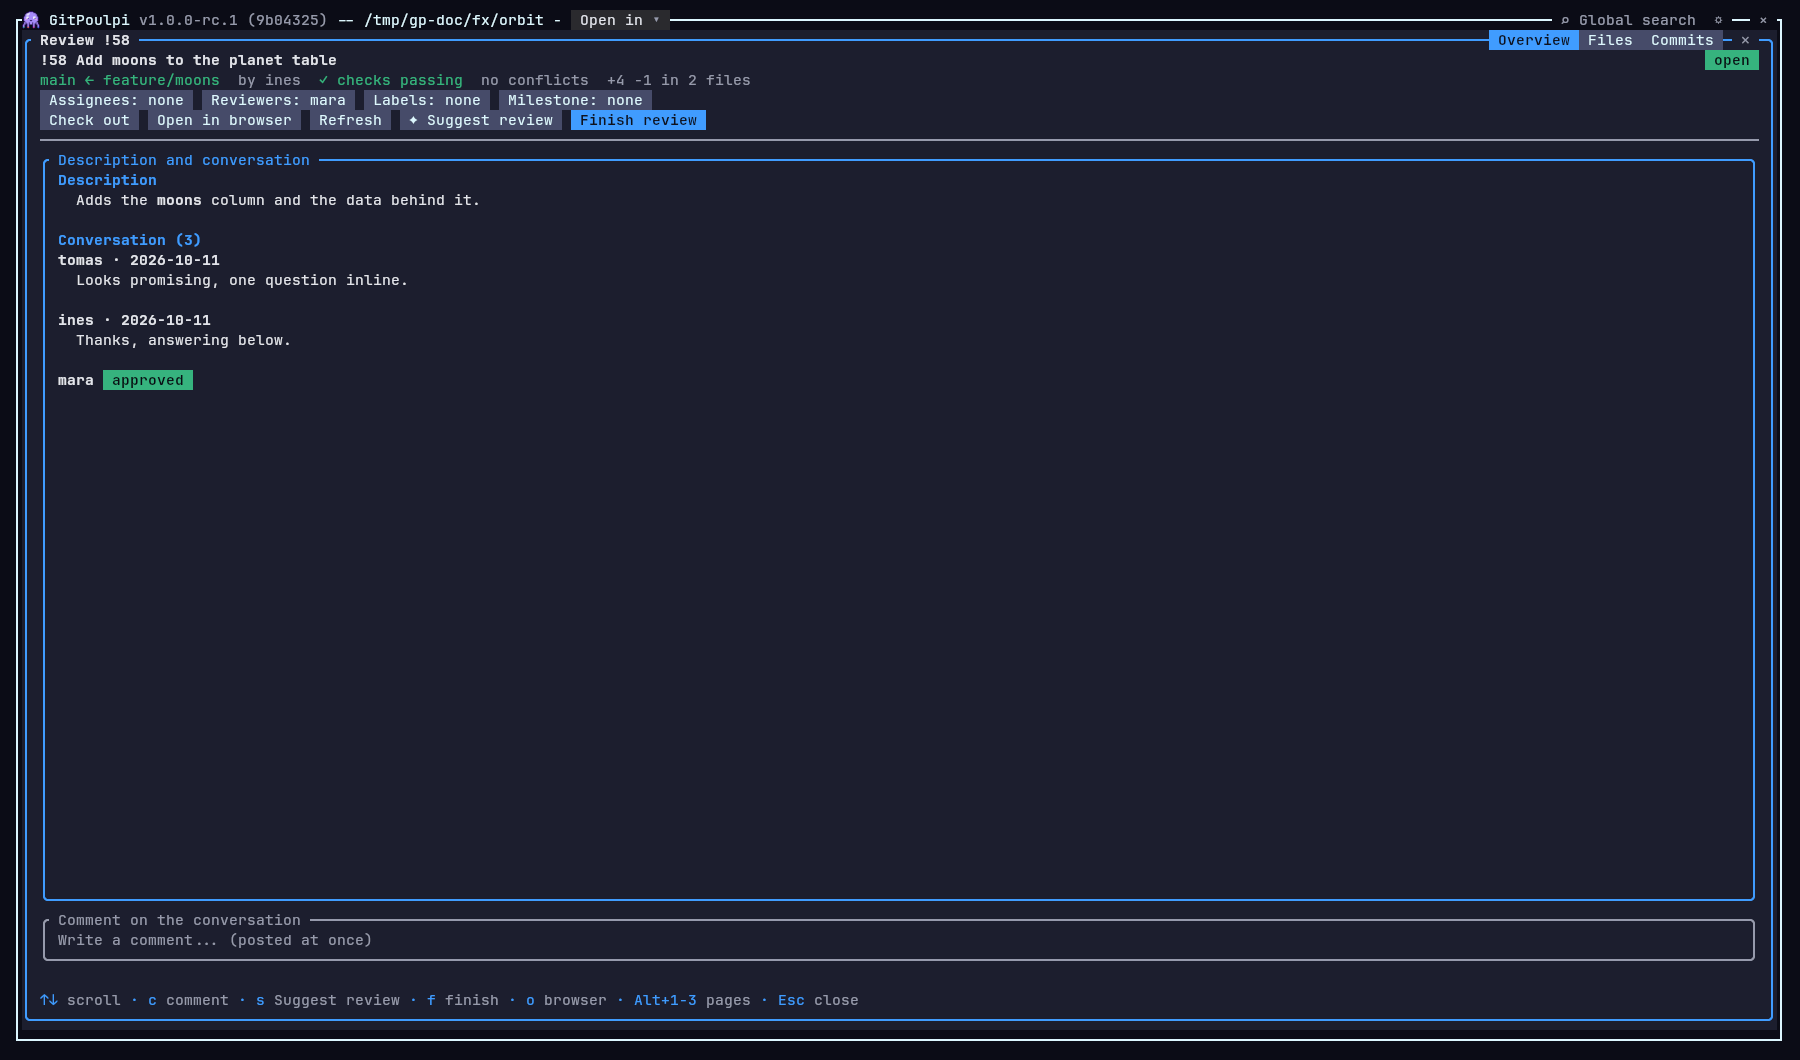
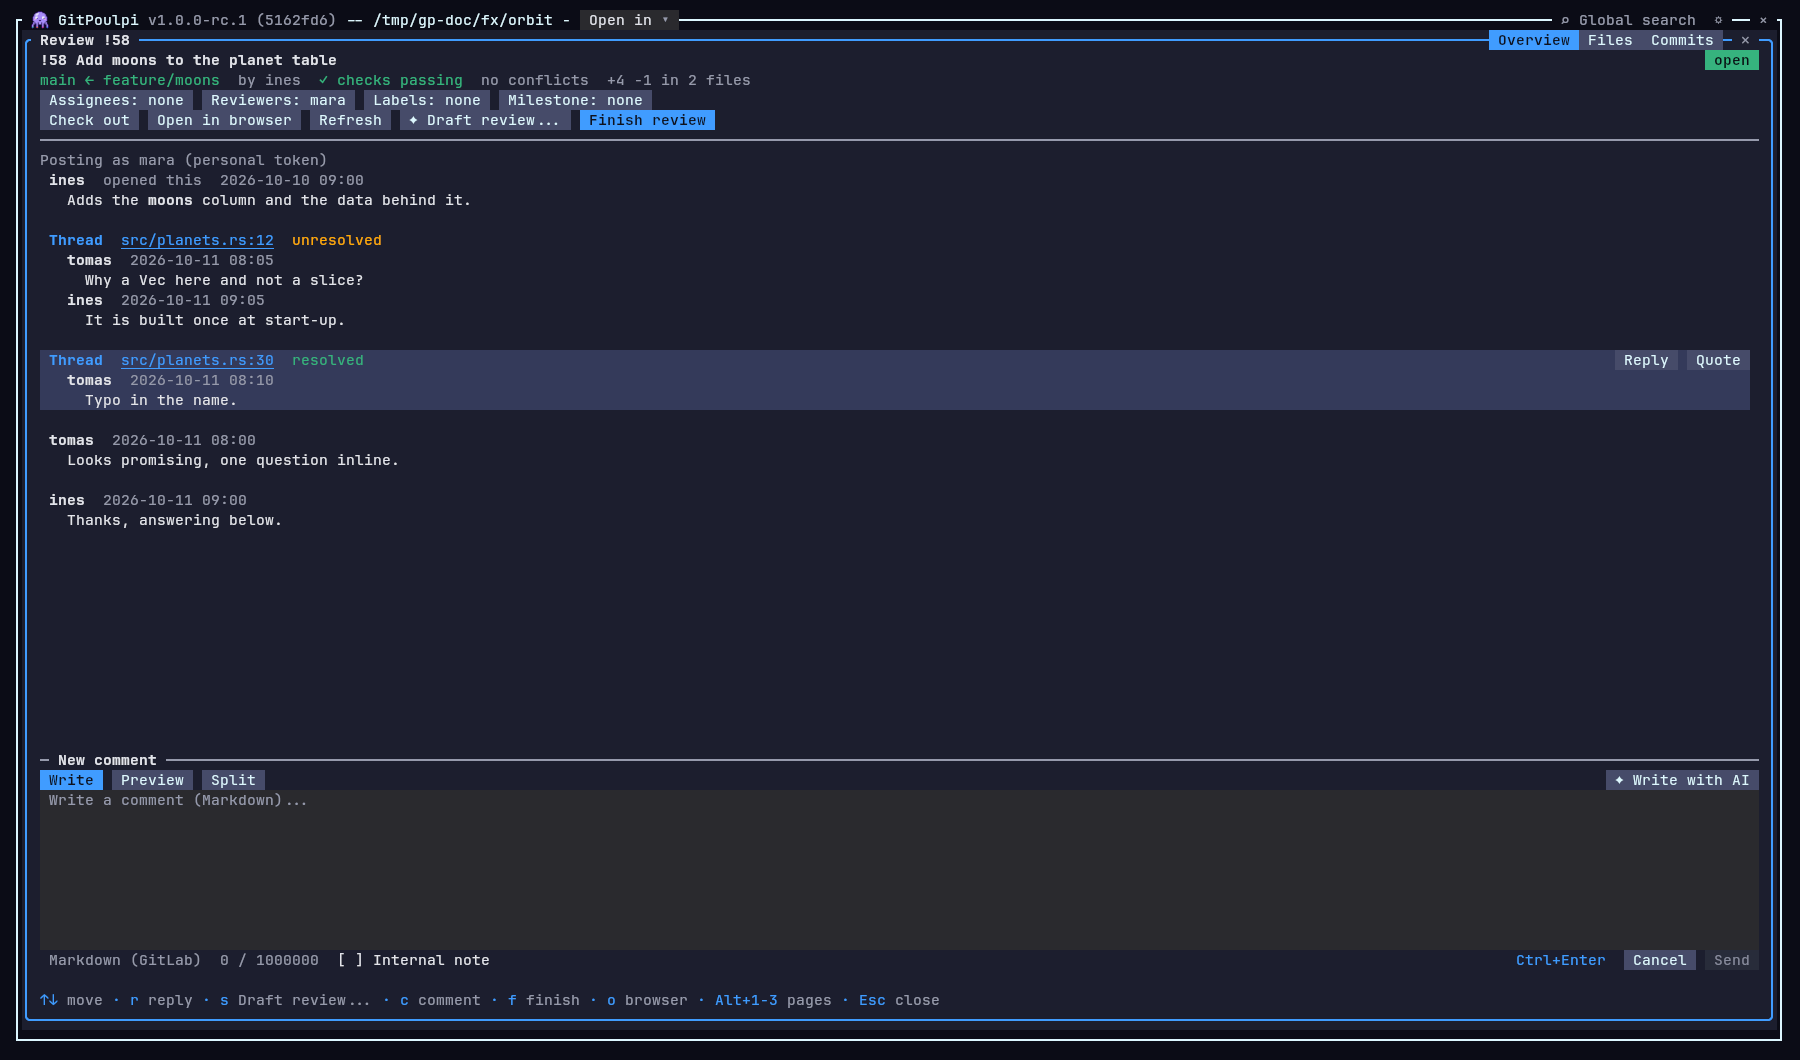
docs: embed the conversation and issue screenshots, refresh the review overview picture

diff --git a/docs/user/conversations.md b/docs/user/conversations.md
@@ -34,6 +34,10 @@ without the `conversation` feature does the same everywhere ([custom builds](cus
 A full-window view: the header (state, who opened it and when, the labels, the number of comments, **Show events**,
 **Back**, **Refresh**, **Open in browser**), the **Posting as** line, the timeline, and under it the comment box.
 
+![The conversation of issue #7: the description with a link to #9, two comments, a label event shown by Show events, and the empty New comment box with Write, Preview and Split](images/issue-conversation.png)
+
+![The Overview page of merge request !58: the description, an unresolved and a resolved code thread with their file and line links, the comments, Reply and Quote on the selected thread, and the comment box](images/pr-conversation.png)
+
 - The timeline reads oldest to newest and starts on the newest window (at most 300 entries). **Load older** at its
   top (`m`, palette *Conversation: Load Older Entries*) reads the window before, with the number still to come when
   the host says it.
@@ -77,6 +81,8 @@ window 100 columns wide). `Ctrl+Enter` (also `Ctrl+S` and `Alt+Enter`) or **Send
 `Alt+E` opens **Write with AI** where AI is on ([the AI chapter](ai.md#writing-help-on-a-host)). The preview is
 laid out by the same renderer as the timeline, with the same references. When the host does not take Markdown the
 footer names the markup the text is sent in (*Sent as Jira wiki markup*, *Sent as Textile*).
+
+![An issue reply being written in the Split view: the Markdown draft on the left, its rendered preview on the right, and Send](images/issue-reply-composer.png)
 
 - The comment is added to the timeline at once and takes its place when the host answers. If the host refuses, the
   entry goes away and the box opens again with your text and the reason.

diff --git a/docs/user/review.md b/docs/user/review.md
@@ -10,7 +10,7 @@ approval and requests for changes. It needs a profile for one of those hosts (se
 reviews. A host's limits are respected: GitLab has no *Request changes* verdict and takes one line per comment.
 This page calls all of them a *request*.
 
-![The review view, Overview page: the request's header with its metadata buttons, the description and the conversation with a submitted approval](images/review-overview.png)
+![The review view, Overview page: the request's header with its metadata buttons, the description, an unresolved and a resolved code thread, the comments and the comment box](images/review-overview.png)
 
 ![The Files page: the changed files with their viewed boxes, the diff with a comment thread under its line, and a resolved thread outside the lines shown](images/review-files.png)
 

diff --git a/docs/user/pull-requests-and-issues.md b/docs/user/pull-requests-and-issues.md
@@ -34,6 +34,8 @@ Below the dropdowns: a search box, the state dropdown (*Open*,
 `ABC-12  title`, with the type and the status dimmed when the sidebar is wide
 enough.
 
+![The ISSUES section of the sidebar with the right-click menu of issue #7 open, Open conversation first](images/issues-sidebar.png)
+
 ### Actions on a row
 
 - `Enter` or a double-click opens the row: a pull request in the [review](review.md) (GitHub, GitLab, Gitea,
